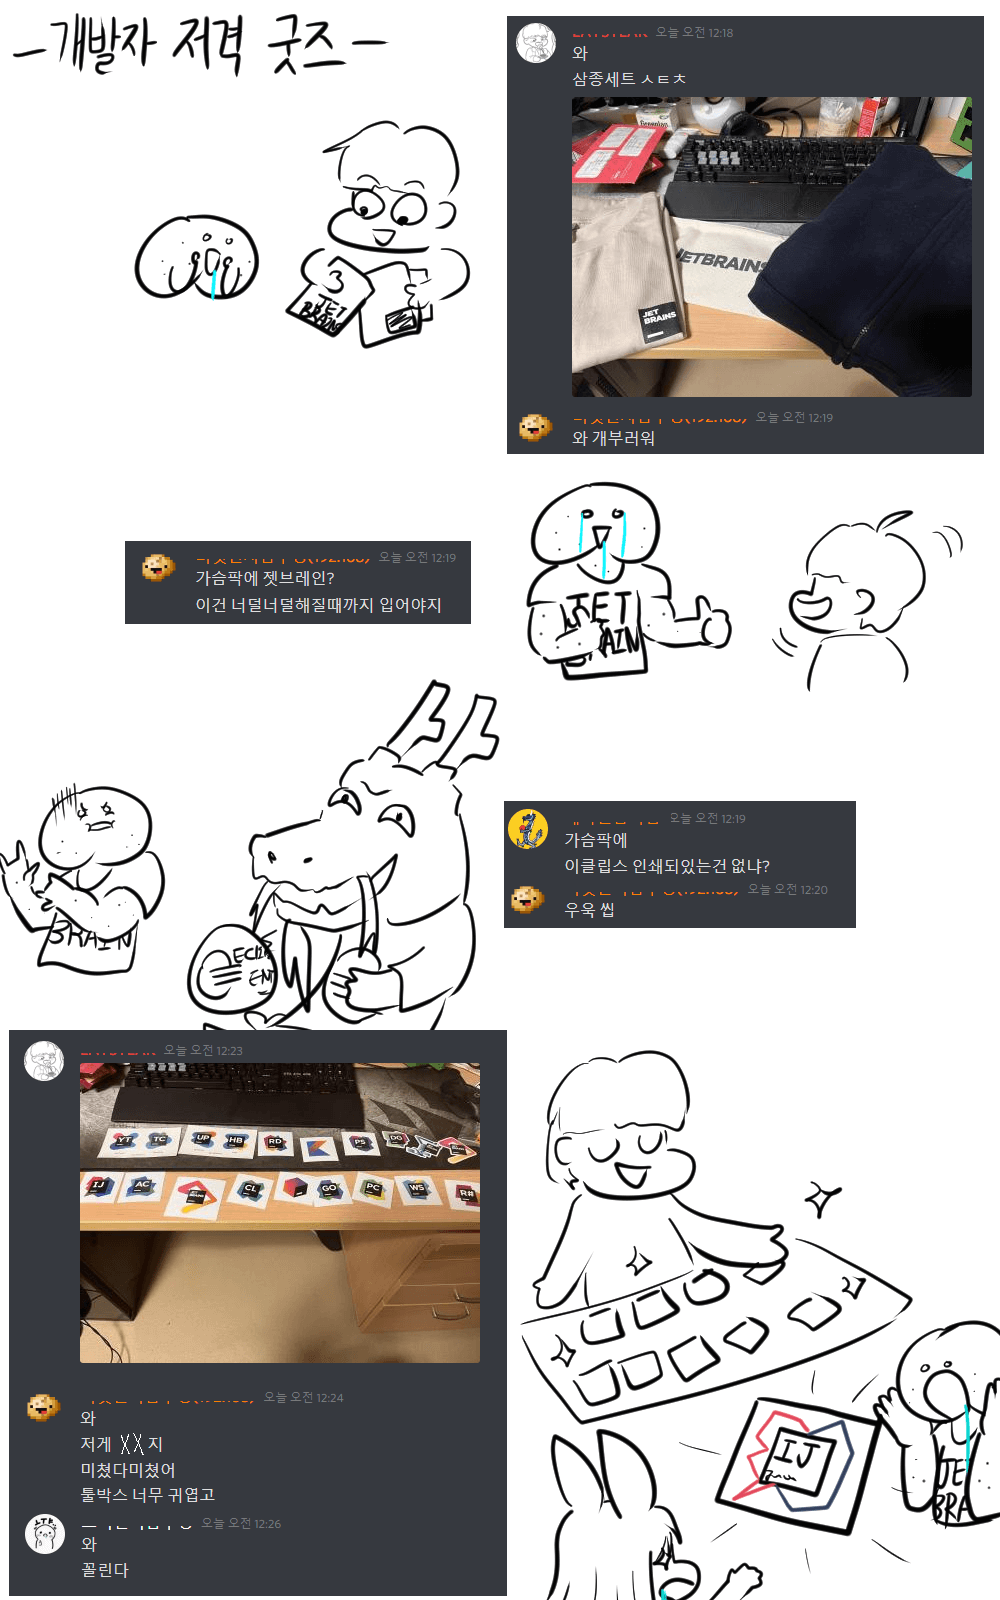
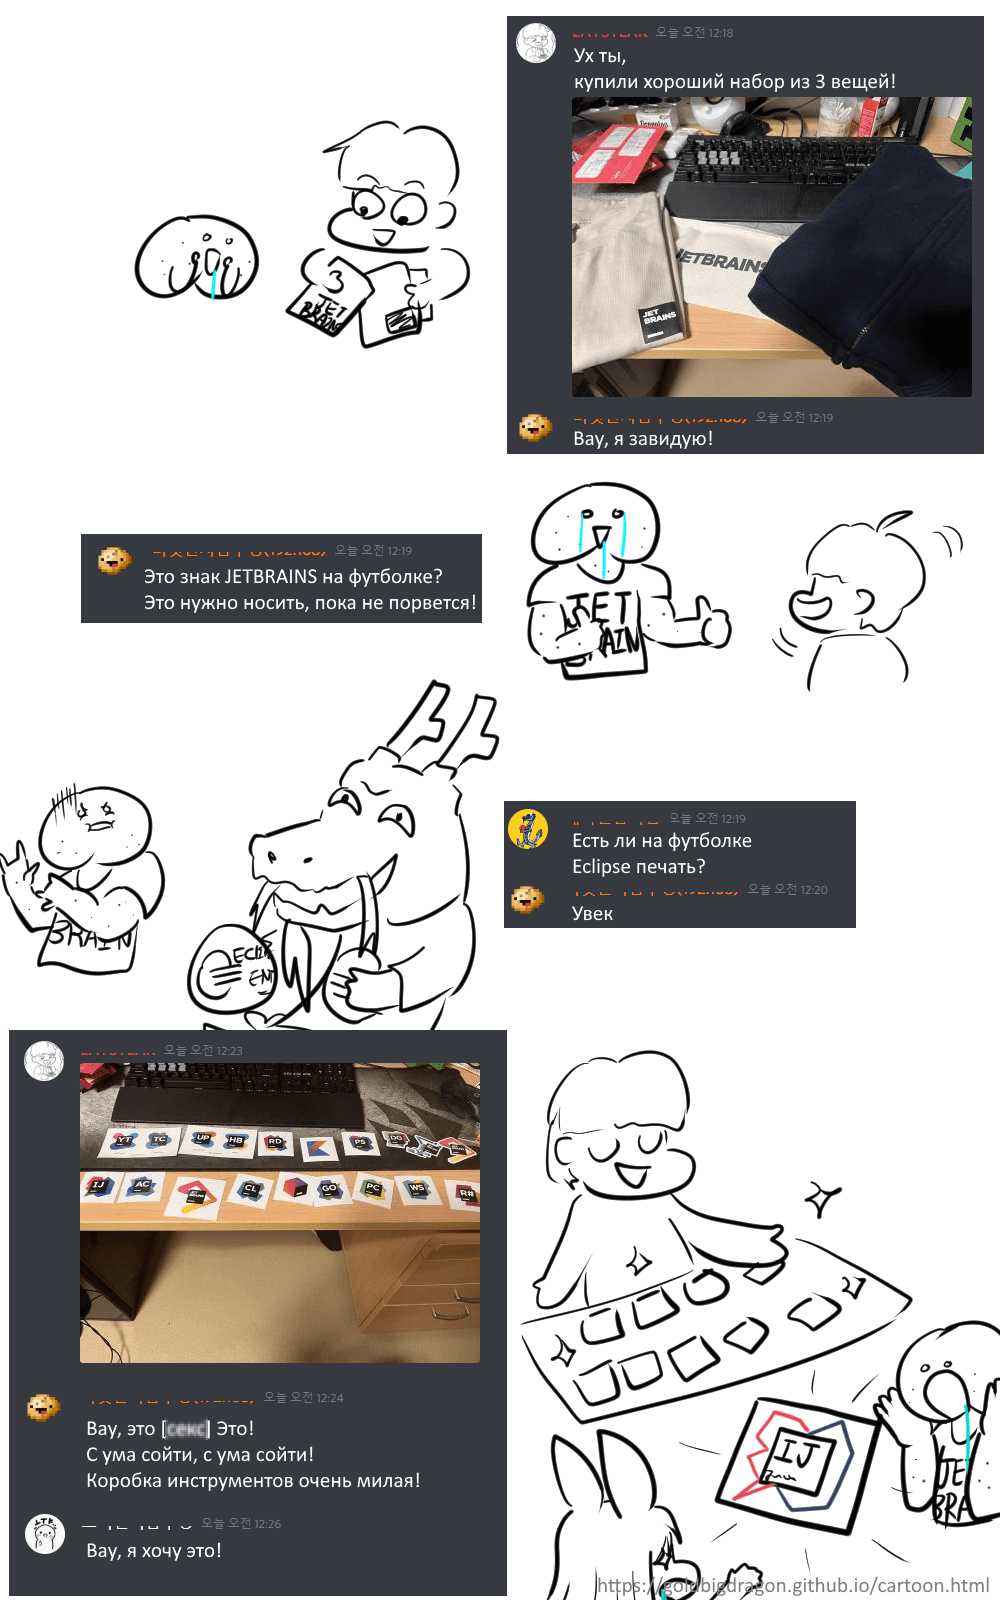
Daily touch

diff --git a/resources/data/cartoon/cartoon_list.js b/resources/data/cartoon/cartoon_list.js
@@ -8,11 +8,11 @@ const CARTOON_LIST = [
 			"ru":"Чат- комната разработчиков"
 		},
 		"translating":{
-			"en":"Translating (45/227)",
+			"en":"Translating (49/227)",
 			"kr":"번역 완료",
-			"jp":"翻訳中 (45/227)",
-			"cn":"翻译 (45/227)",
-			"ru":"Перевод (45/227)"
+			"jp":"翻訳中 (49/227)",
+			"cn":"翻译 (49/227)",
+			"ru":"Перевод (49/227)"
 		},
 		"uid":"developer",
 		"pages": [
